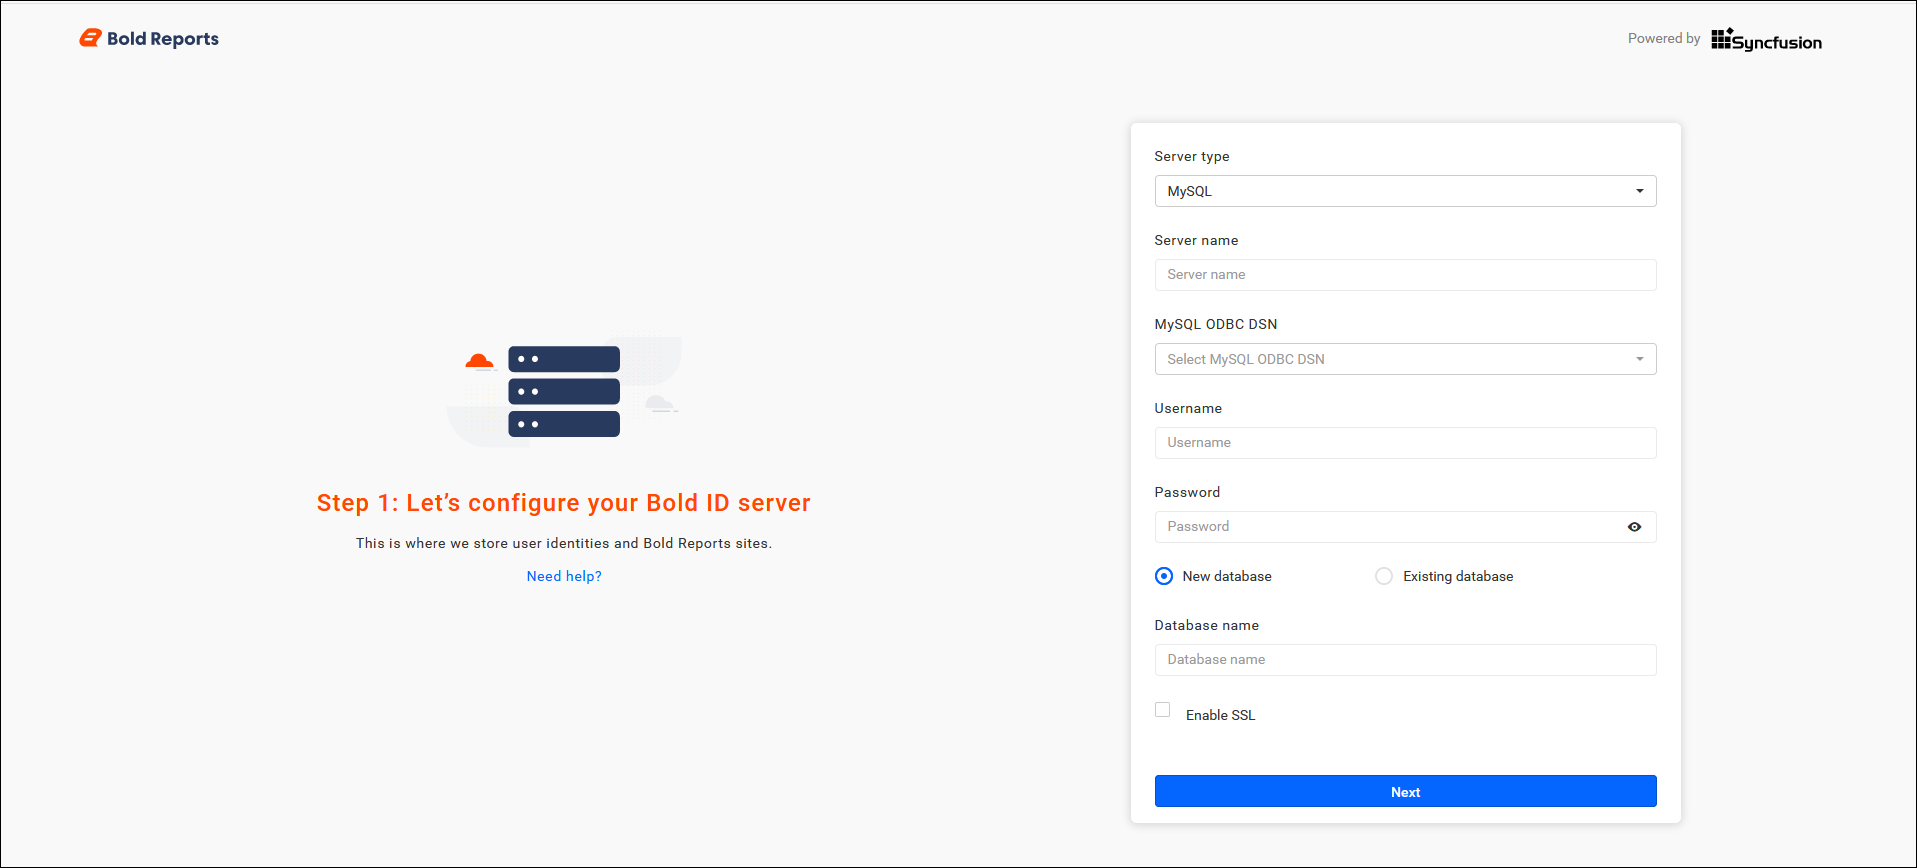
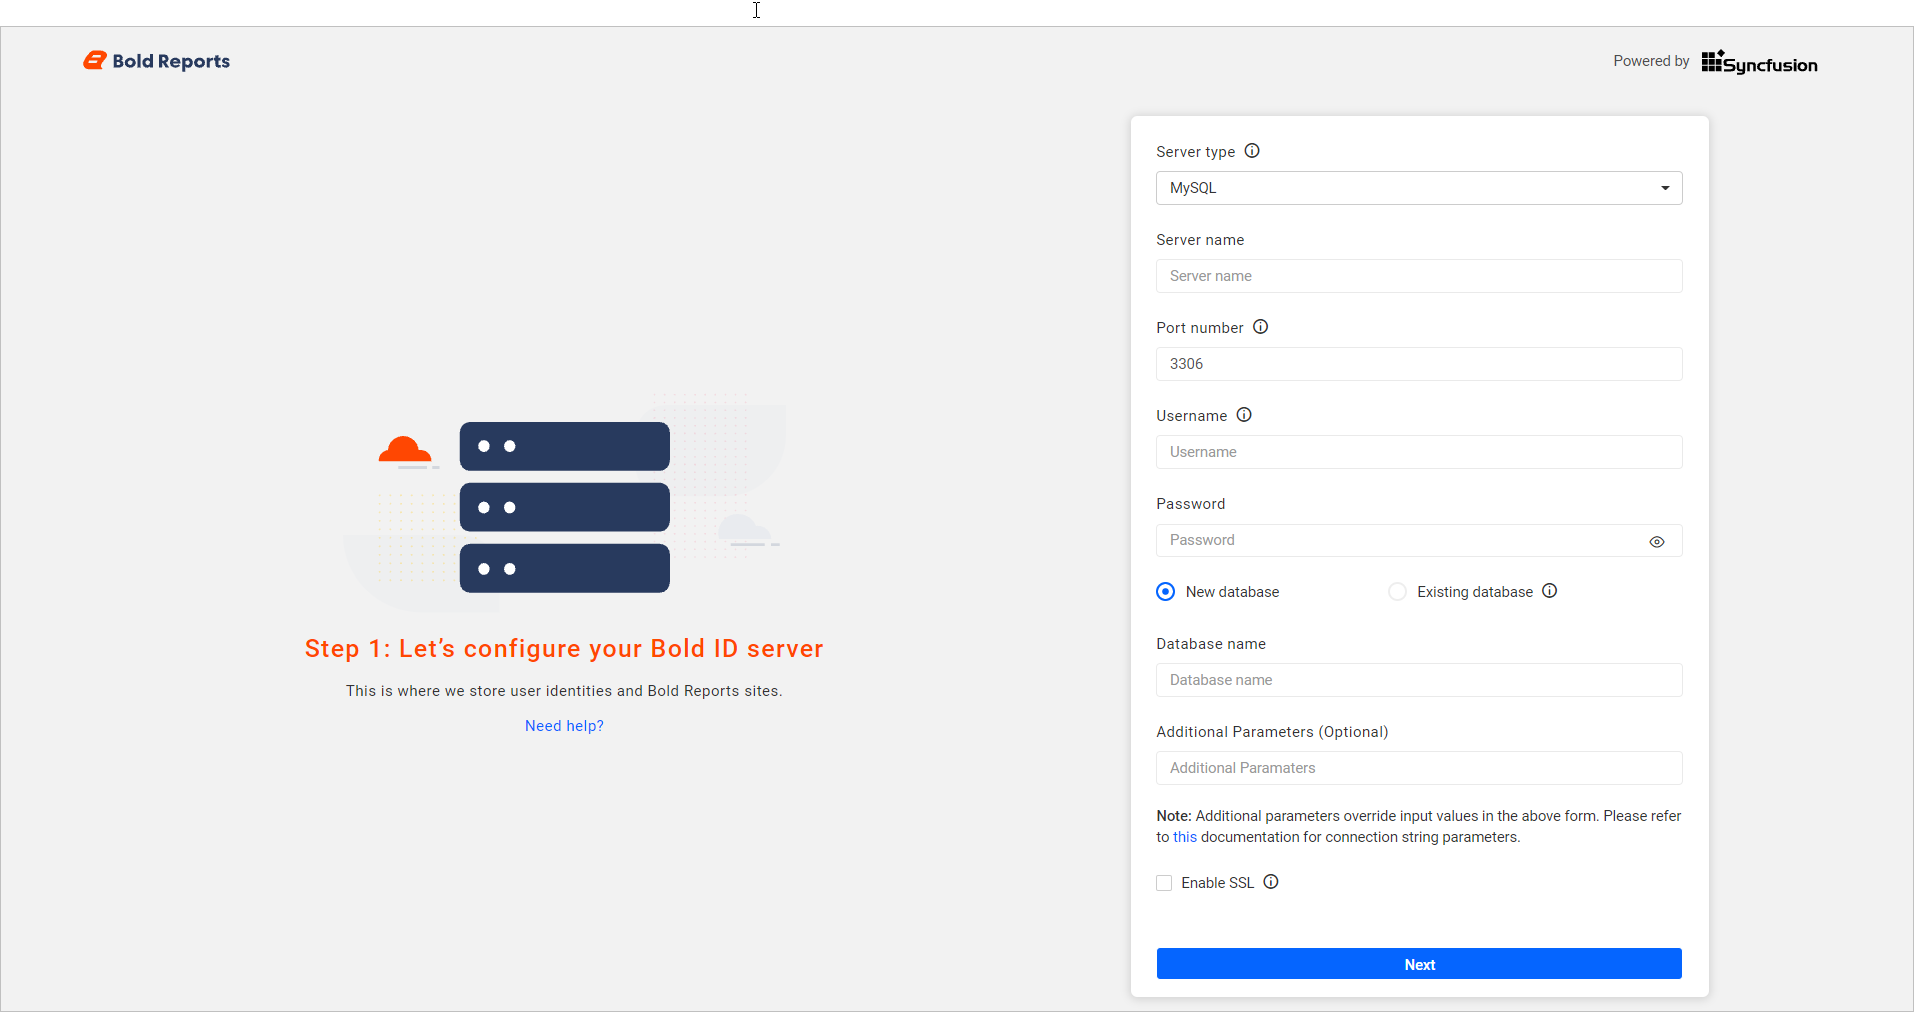
documentation(REPORT-8940): Modified MySQL configuration content

diff --git a/docs/administrator-guide/application-startup/mysql-configuration.md b/docs/administrator-guide/application-startup/mysql-configuration.md
@@ -8,7 +8,7 @@ documentation: ug
 
 # MySQL Configuration
 
-Starting with the version v2.4.19, Bold Reports introduced MySQL database support for storing the user identities and report details.
+Starting with the version v3.2.22, Bold Reports introduced MySQL database support for storing the user identities and report details.
 
 ## MySQL Database Configuration for Bold ID
 
@@ -18,16 +18,14 @@ You can connect to the existing MySQL Server instance by following the below ste
 
 1. Select the server type as `MySQL` and provide the name of the server.
 
-2. Select the `MySQL ODBC DSN`. Create the MySQL DSN by following this [link](./../../how-to/create-dsn-for-mysql/)
+2. Provide the Username and password of the server to be connected.
 
-3. Provide the Username and password of the server to be connected.
-
-4. You can connect to the MySQL Server with the below options.
+3. You can connect to the MySQL Server with the below options.
 
     * Create new database.
     * Use an existing database.
 
-5. Provide the database name and proceed further.
+4. Provide the database name and proceed further.
 
 ![MySQL Server](/static/assets/on-premise/images/getting-started/application-startup-mySQL-server.png)
 
@@ -43,16 +41,14 @@ You can connect to the existing MySQL Server instance by following the below ste
 
 1. Select the server type as `MySQL` and provide the name of the server.
 
-2. Select the `MySQL ODBC DSN`. Create the MySQL DSN by following this [link](./../../how-to/create-dsn-for-mysql/)
+2. Provide the Username and password of the server to be connected.
 
-3. Provide the Username and password of the server to be connected.
-
-4. You can connect to the MySQL Server with the below options.
+3. You can connect to the MySQL Server with the below options.
 
     * Create new database.
     * Use an existing database.
 
-5. Provide the database name and proceed further.
+4. Provide the database name and proceed further.
 
 ![MySQL Server](/static/assets/on-premise/images/getting-started/application-startup-mySQL-bold-reports-server.png)
 
